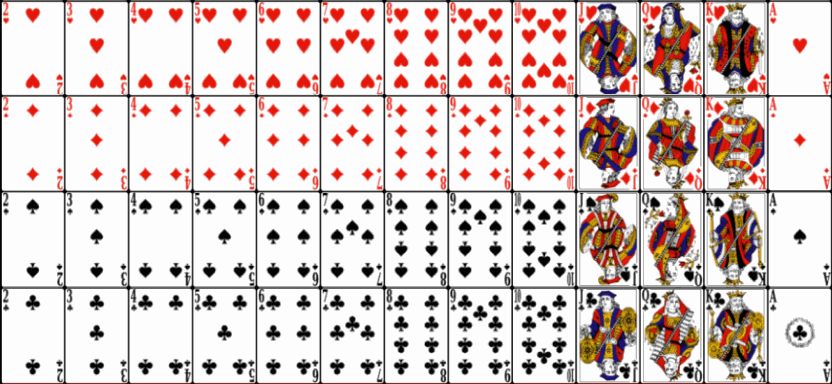
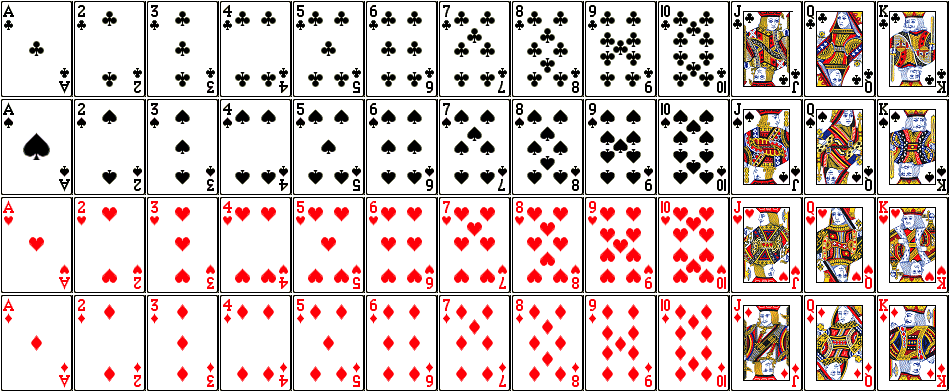
finished game

diff --git a/code/card-viz/src/GenGame.js b/code/card-viz/src/GenGame.js
@@ -41,6 +41,7 @@ class GenGame extends Component {
         this.ResetBank.bind(this);
         //this.DisplayButton.bind(this);
         this.PlayerMove.bind(this);
+        this.number.bind(this)
     }
 
     GetOneCardFromDeck = () => {
@@ -81,6 +82,7 @@ class GenGame extends Component {
 
     StartNewGame = () => {
         //this.setState({AppMode: "Game"});
+        
         for(let count = 0; count < 52; count ++) {
             this.state.CardsDeck[count] = 1;
 
@@ -112,6 +114,11 @@ class GenGame extends Component {
             this.MoveDeck(this.state.AI3Deck)
 
         }
+
+        this.setState({PlayerTrick: 0})
+        this.setState({AI1Trick: 0})
+        this.setState({AI2Trick: 0})
+        this.setState({AI3Trick: 0})
 
         this.SortBank(this.state.PlayerBank)
         this.SortBank(this.state.AI1Deck)
@@ -153,8 +160,9 @@ class GenGame extends Component {
                             this.setState({GameState: 'Next'})
                             break;
                         }   
-                    } if(found===false) {
-                        this.PlayerTrick += 1
+                    } 
+                    if(found===false) {
+                        this.state.PlayerTrick += 1
                         this.setState({GameState: 'First'})
                         this.setState({CurrentCard: null})
                         this.setState({CardIndex: -1})
@@ -375,8 +383,6 @@ class GenGame extends Component {
                 if(this.state.PlayerBank[count] == null) {
                 } else {
                     //player 1: 360, 350 2: 390, 350 3: 420, 350 4: 450, 350
-                    console.log(this.state.PlayerBank)
-                    console.log("here")
                     this.draw_card(this.state.PlayerBank[count], bc_x, bc_y+200);
                 } if(this.state.AI1Bank[count] == null) {
                 } else {
@@ -406,13 +412,32 @@ class GenGame extends Component {
           
         }
         else{
-          let SourceX = (CardNumber % 13) * 64;
-          let SourceY = Math.floor(CardNumber / 13) * 96;
+          let SourceX = (CardNumber % 13) * 73;
+          let SourceY = Math.floor(CardNumber / 13) * 98;
      
-          Ctx.drawImage(this.refs.CadrDeckImg, SourceX, SourceY, 64, 96, DestinationX, DestinationY, 30, 56);
+          Ctx.drawImage(this.refs.CadrDeckImg, SourceX, SourceY, 73, 98, DestinationX, DestinationY, 30, 56);
         }
       }
-    
+
+    number = (card) => {
+        if(card==null) {
+            return 'empty'
+        }
+        else if (card%13 == 0) {
+            return 'A'
+        } else if (card%13+1 > 10) {
+            if (card%13+1 == 11) {
+                return 'J'
+            } else if (card%13+1 == 12) {
+            return 'Q'
+        } else {
+            return 'K'
+        }
+        } else {
+            return card%13+1
+        }
+    }
+
     // }
     render = () => {
     
@@ -448,7 +473,9 @@ class GenGame extends Component {
                         className="GenGameButton1"
                         onClick={this.BtnOnMoveClick.bind(this, 0)}
                         >
-                        {" 1 "}
+                        {" "}
+                        {this.number(this.state.PlayerBank[0])}
+                        {" "}
                         
                     </button>
 
@@ -456,7 +483,9 @@ class GenGame extends Component {
                         className="GenGameButton2"
                         onClick={this.BtnOnMoveClick.bind(this, 1)}
                         >
-                        {" 2 "}
+                        {" "}
+                        {this.number(this.state.PlayerBank[1])}
+                        {" "}
                     
                     </button>
 
@@ -464,7 +493,9 @@ class GenGame extends Component {
                         className="GenGameButton3"
                         onClick={this.BtnOnMoveClick.bind(this, 2)}
                         >
-                        {" 3 "}
+                        {" "}
+                        {this.number(this.state.PlayerBank[2])}
+                        {" "}
                         
                     </button>
 
@@ -472,7 +503,9 @@ class GenGame extends Component {
                         className="GenGameButton4"
                         onClick={this.BtnOnMoveClick.bind(this, 3)}
                         >
-                        {" 4 "}
+                        {" "}
+                        {this.number(this.state.PlayerBank[3])}
+                        {" "}
                         
                     </button>
                </div>     
